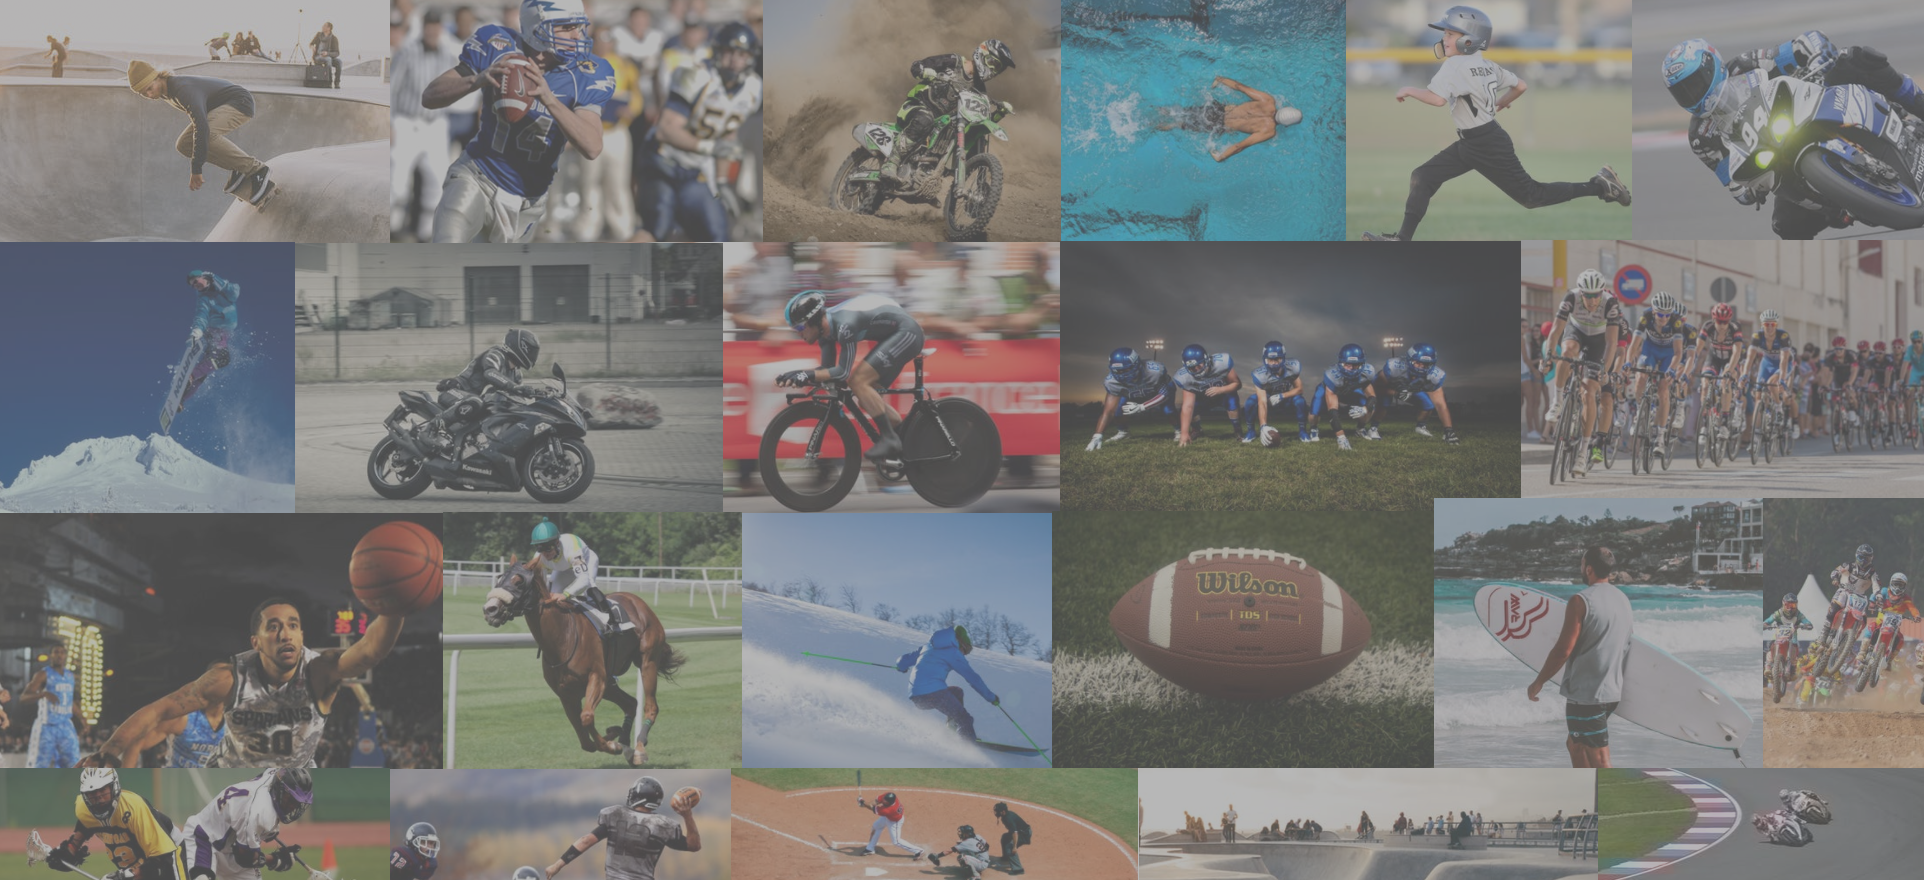
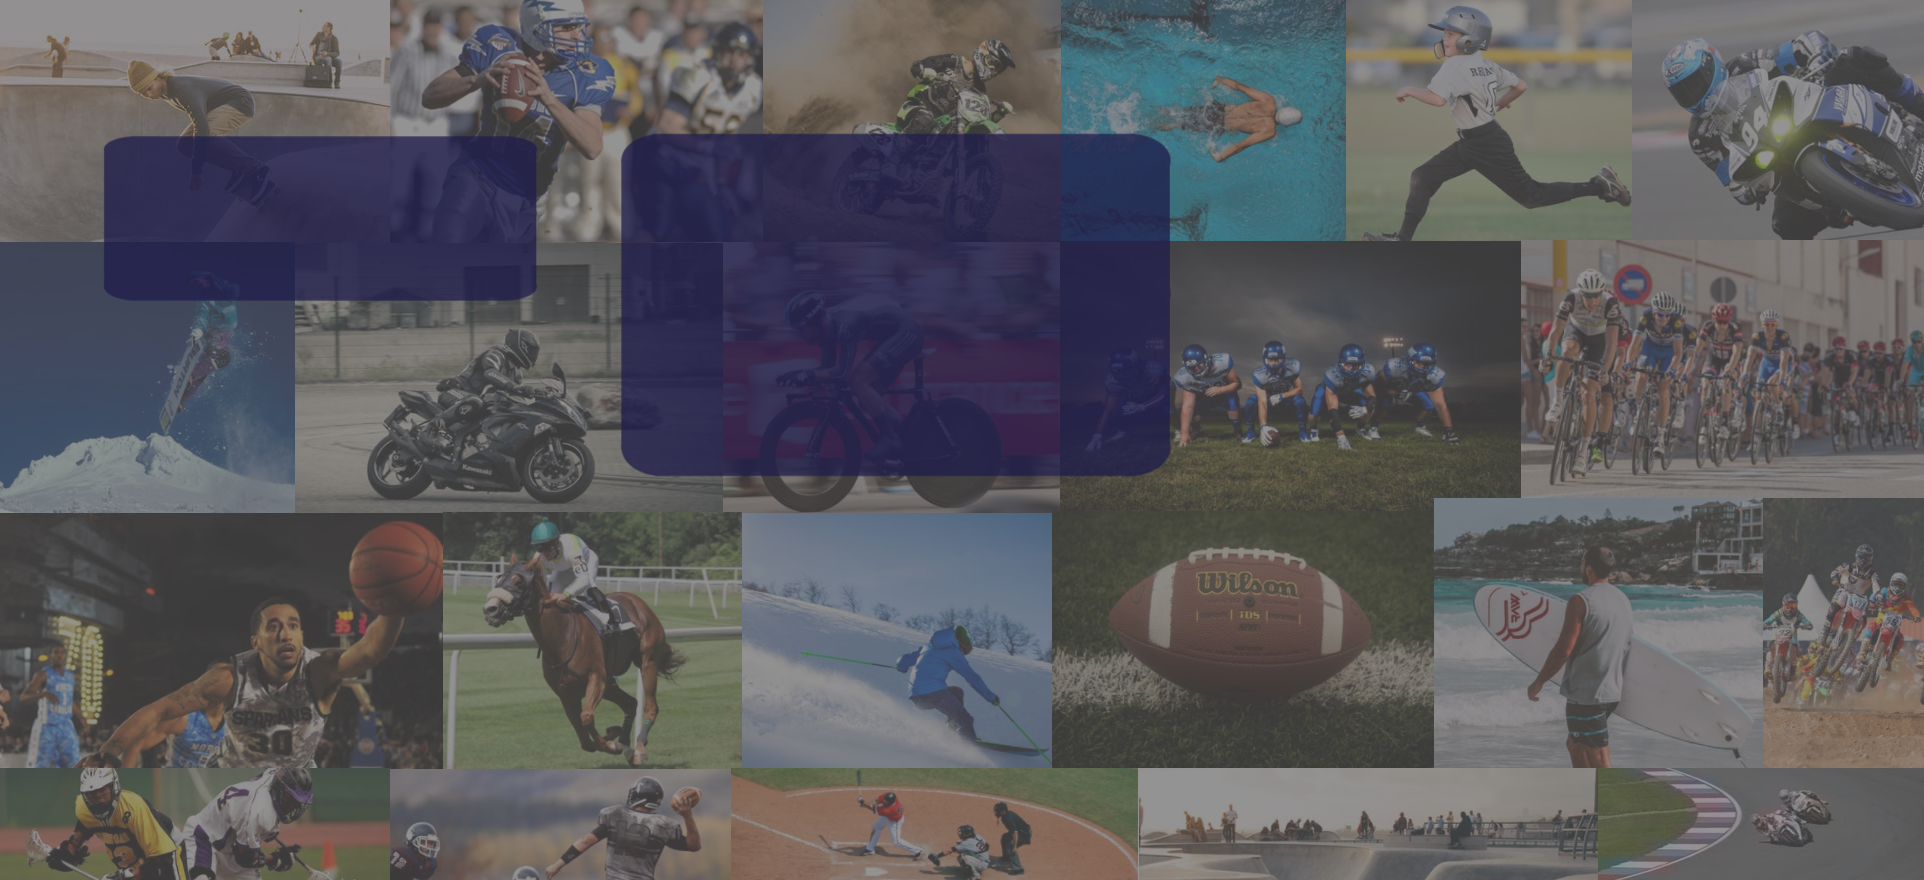
Detalles del css

diff --git a/sdeportivo/views/s_admin.css b/sdeportivo/views/s_admin.css
@@ -11,6 +11,16 @@
 	left: 135px;
 	width: 0px;
 }
+
+body{
+	color: #FFF;
+}
+
+table{
+	text-align:center;
+	margin:0 auto;
+	font-family: Avant Garde, Avantgarde, Century Gothic, CenturyGothic, AppleGothic, sans-serif;
+}
 #et{
 	position: relative;
 	top: -40px;
@@ -19,28 +29,39 @@
 h2{
 	text-align: center;
 	color: #FF5349;
-	font-family: Baskerville, "Baskerville Old Face", "Goudy Old Style", Garamond, "Times New Roman", serif;
+	font-family: Chaparral Pro, "Baskerville Old Face", "Goudy Old Style", Garamond, "Times New Roman", serif;
 	font-size: 40px;
 }
 body{
-	background-color:#292C44;
-	color:#F0F0F1;
+	text-align:center;
+	margin:0 auto;
 }
-table{
-	border-collapse: collapse;
-	border: 2px solid black;
-	font-family: Baskerville, "Baskerville Old Face", "Goudy Old Style", Garamond, "Times New Roman", serif;
-}
+
 td, th{
-	text-align: center;
+	text-align:center;
+	margin:0 auto;
 	vertical-align: middle;
 	border: 1px solid black;
 }	
 th{
+	text-align:center;
+	margin:0 auto;
 	font-size: 20px;
-	background-color: #18CDCA;
+	background-color: #0fa09e;
 }
+
+table{
+	border-collapse: collapse;
+	border: 2px solid black;
+	border-color: #000;
+}
+
 button{
-	width: 150px;
-	height: 30px;
+	text-align:center;
+	margin:0 auto;
+	padding: 3px 10px;
+	cursor: pointer;
+	font-weight: bold;
+	font-family: Avant Garde, Avantgarde, Century Gothic, CenturyGothic, AppleGothic, sans-serif;
 }
+

diff --git a/sdeportivo/styles.css b/sdeportivo/styles.css
@@ -1,44 +1,52 @@
 h1{
 	
 	text-align: center;
-	color: #FF5349;
-	background-color:#292C44;
-	font-family: Baskerville, "Baskerville Old Face", "Goudy Old Style", Garamond, "Times New Roman", serif;
+	color: #FFF;
+	background: rgba(30, 28, 75, 0.4);
+	font-family: Chaparral Pro, "Baskerville Old Face", "Goudy Old Style", Garamond, "Times New Roman", serif;
 
 }
 
 #inicio{
 	 position: relative;
-	  width  : 400px;
-	  left: 50px;
+	  width  : 380px;
+	  left: 120px;
+	  top: 65px;
  	 margin : 0 ;
 }
 #registro{
 	position: relative;
   	width  : 470px;
- 	 left: 470px;
- 	 top: -130px;
+ 	 left: 660px;
+ 	 top: -50px;
  	 margin : 0 ;
 }
 input{
 	display: table-caption;
 }
 body{
-	background-image: url("img/fondo.png");
-	
-	
+	background-image: url("img/fondo.png");	
 }
+
 form{
-	background-color:#292C44;
+	
+	/*background: rgba(30, 28, 75, 0.5);*/
 }
 legend{
-	color: #18CDCA;
+	color: #ff5349;
 	font-weight: bold;
+	font-family: Avant Garde, Avantgarde, Century Gothic, CenturyGothic, AppleGothic, sans-serif;
 
 }
 label{
 	color: #4F80E1;
+	font-family: Avant Garde, Avantgarde, Century Gothic, CenturyGothic, AppleGothic, sans-serif;
 }
+input{
+	font-family: Avant Garde, Avantgarde, Century Gothic, CenturyGothic, AppleGothic, sans-serif;
+
+}
+
 input[type=submit]{
 	padding: 3px 10px;
 	cursor: pointer;

diff --git a/sdeportivo/views/s_etorneo.css b/sdeportivo/views/s_etorneo.css
@@ -1,6 +1,7 @@
 legend{
 	color:#18CDCA;
-
+	font-family: Avant Garde, Avantgarde, Century Gothic, CenturyGothic, AppleGothic, sans-serif;
+	font-weight: bold;
 }
 body{
 	background-color:#292C44;
@@ -19,4 +20,24 @@ fieldset{
 button{
 	position: relative;
 	left: 350px;
+	font-family: Avant Garde, Avantgarde, Century Gothic, CenturyGothic, AppleGothic, sans-serif;
+	cursor: pointer;
+	font-weight: bold;
+}
+
+label{
+	font-family: Avant Garde, Avantgarde, Century Gothic, CenturyGothic, AppleGothic, sans-serif;
+}
+
+input{
+	
+	font-family: Avant Garde, Avantgarde, Century Gothic, CenturyGothic, AppleGothic, sans-serif;
+	cursor: pointer;
+}
+
+table{
+	text-align:center;
+	margin:0 auto;
+	font-family: Avant Garde, Avantgarde, Century Gothic, CenturyGothic, AppleGothic, sans-serif;
+	
 }

diff --git a/sdeportivo/views/s_torneo.css b/sdeportivo/views/s_torneo.css
@@ -29,12 +29,27 @@ th{
 	background-color: #18CDCA;
 	
 }
+
+table{
+	text-align:center;
+	margin:0 auto;
+	border-collapse: collapse;
+	border: 2px solid black;
+	border-collapse: collapse;
+	border: 2px solid black;
+	font-family: Avant Garde, Avantgarde, Century Gothic, CenturyGothic, AppleGothic, sans-serif;
+}
+
 #registrar{
 	background-color: #4F80E1;
 	border-radius: 4px;
 }
-table{
-	border-collapse: collapse;
-	border: 2px solid black;
-	font-family: Baskerville, "Baskerville Old Face", "Goudy Old Style", Garamond, "Times New Roman", serif;
+
+button{
+	position: relative;
+	left: 350px;
+	font-family: Avant Garde, Avantgarde, Century Gothic, CenturyGothic, AppleGothic, sans-serif;
+	cursor: pointer;
+	font-weight: bold;
 }
+

diff --git a/sdeportivo/views/s_dtorneo.css b/sdeportivo/views/s_dtorneo.css
@@ -1,20 +1,33 @@
 h2{
+	text-align:center;
+	margin:0 auto;
 	color: #FF5349;
 }
 body{
 	background-color: #292C44;
 	color:white;
+	text-align:center;
+	margin:0 auto;
 }
 th{
 	background-color: #18CDCA;
 	color: white;
 }
 table{
+	font-family: Avant Garde, Avantgarde, Century Gothic, CenturyGothic, AppleGothic, sans-serif;
+	text-align:center;
+	margin:0 auto;
 	border-collapse: collapse;
 	border: 2px solid black;
+	
 }
 td, th{
 	text-align: center;
 	vertical-align: middle;
 	border: 1px solid black;
 }	
+
+button{
+	font-family: Avant Garde, Avantgarde, Century Gothic, CenturyGothic, AppleGothic, sans-serif;
+	font-weight: bold;
+}

diff --git a/sdeportivo/index.php b/sdeportivo/index.php
@@ -10,11 +10,11 @@
 	<title>Inicio</title>
 </head>
 <body>
+
+
 	<h1>BIENVENIDO</h1>
 	<div id="inicio">
 	<form action="controllers/iniciar.php" method="post">
-
-		
 
 		<fieldset>
 			<legend>Iniciar sesion</legend>
@@ -44,8 +44,6 @@
 	<div id="registro">
 
 	<form action="controllers/iniciar.php" method="post">
-
-		
 
 		<fieldset>
 			<legend>Registrarse</legend>

diff --git a/sdeportivo/views/detallesTorneo.php b/sdeportivo/views/detallesTorneo.php
@@ -24,7 +24,7 @@
 	<link rel="stylesheet" type="text/css" href="s_dtorneo.css">
 	<title>Detalles Torneo</title>
 </head>
-<body>
+<body background="../img/fondo2.png">
 	<h2>Detalles del torneo: <?php echo $_POST["nom_torneo"]; ?></h2>
 	<?php
 		$nom = mysqli_real_escape_string($connection, $_POST["nom_torneo"]);

diff --git a/sdeportivo/views/editarTorneo.php b/sdeportivo/views/editarTorneo.php
@@ -24,7 +24,7 @@
 	<link rel="stylesheet" type="text/css" href="s_etorneo.css">
 	<title>Editar Torneo</title>
 </head>
-<body>
+<body background="../img/fondo2.png">
 	<h2>Editando el torneo: <?php echo $_POST["nom_torneo"]; ?></h2>
 	<?php
 		$nom = mysqli_real_escape_string($connection, $_POST["nom_torneo"]);

diff --git a/sdeportivo/views/detallesEquipo.php b/sdeportivo/views/detallesEquipo.php
@@ -24,7 +24,7 @@
 	<link rel="stylesheet" type="text/css" href="s_torneo.css">
 	<title>Detalles Equipo</title>
 </head>
-<body>
+<body background="../img/fondo2.png">
 	<h2>Detalles del equipo: <?php echo $_POST["nom_equi"]; ?></h2>
 	<?php
 		$nom = mysqli_real_escape_string($connection, $_POST["nom_equi"]);

diff --git a/sdeportivo/views/editarEquipo.php b/sdeportivo/views/editarEquipo.php
@@ -24,7 +24,7 @@
 	<link rel="stylesheet" type="text/css" href="s_etorneo.css">
 	<title>Editar Equipo</title>
 </head>
-<body>
+<body background="../img/fondo2.png">
 	<h2>Editando el equipo: <?php echo $_POST["nom_equi"]; ?></h2>
 	<?php
 		$nom = mysqli_real_escape_string($connection, $_POST["nom_equi"]);

diff --git a/sdeportivo/views/admin.php b/sdeportivo/views/admin.php
@@ -27,7 +27,7 @@
 	<link rel="stylesheet" type="text/css" href="s_admin.css">
 	<title>Edicion para administradores</title>
 </head>
-<body>
+<body background="../img/fondo2.png">
 	
 
 	<h2>Bienvenida administradora <?php echo $_SESSION["usuario"]; ?></h2>
